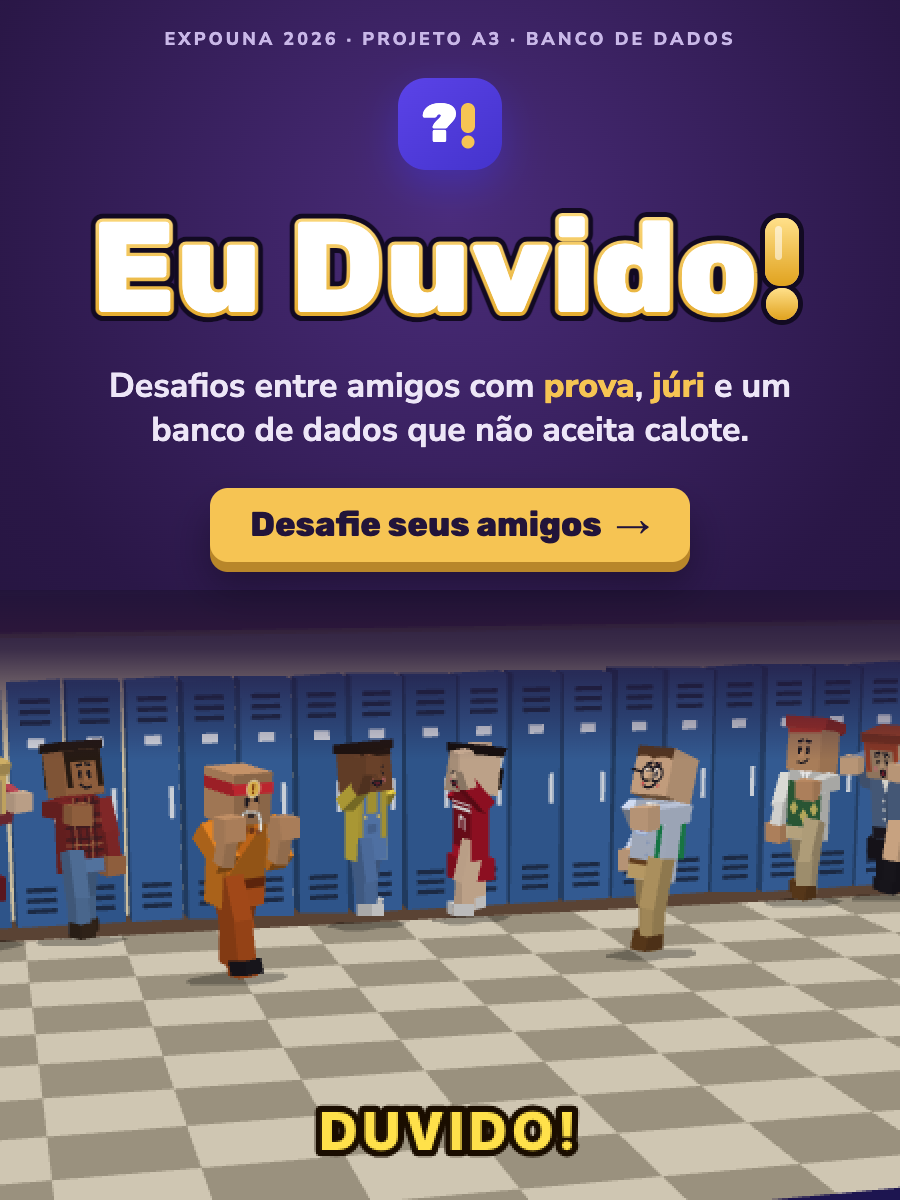
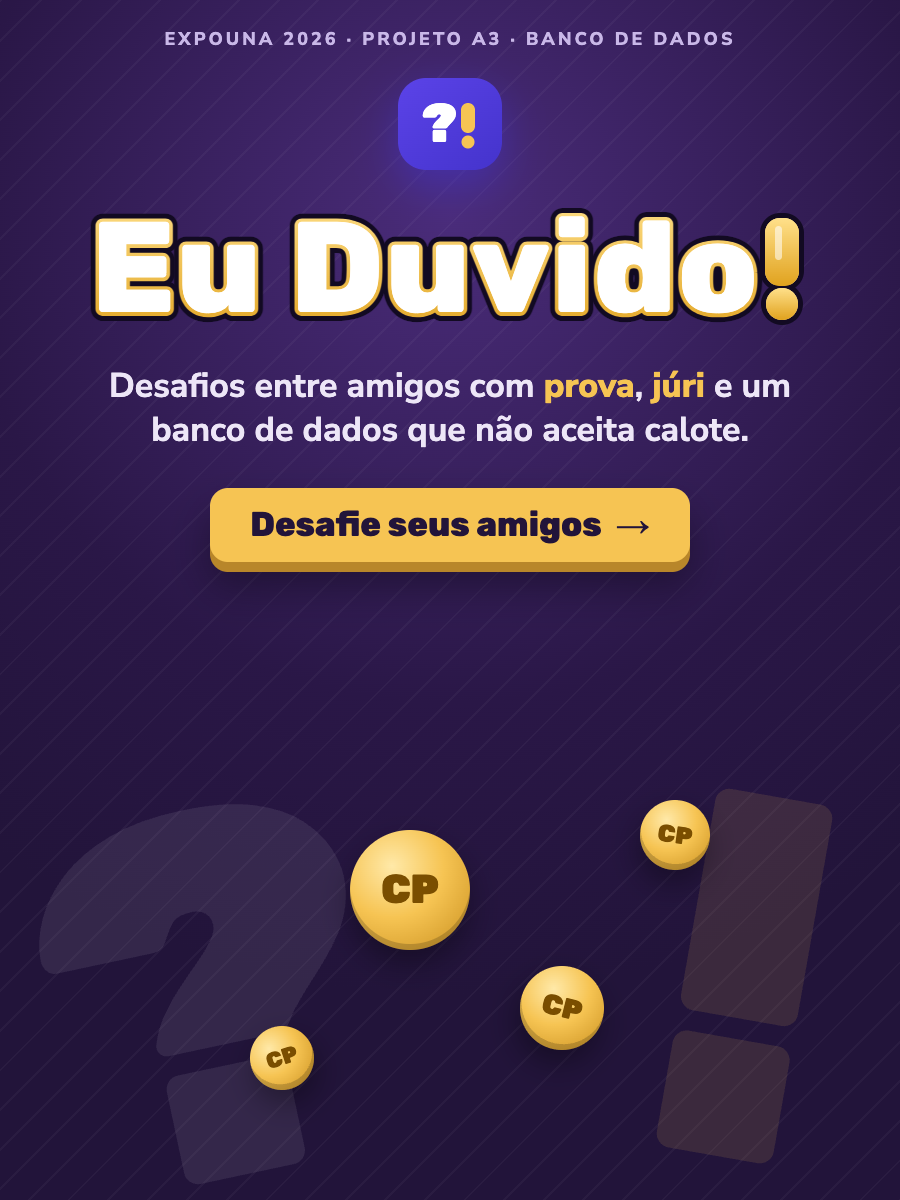
docs: card da EXPOUNA sem a cena 3D

diff --git a/docs/04-ux/card-expouna/card.html b/docs/04-ux/card-expouna/card.html
@@ -7,12 +7,16 @@
   * { box-sizing: border-box; margin: 0; padding: 0; }
   html, body { width: 900px; height: 1200px; overflow: hidden; background: #22143A; }
   .card { position: relative; width: 900px; height: 1200px; overflow: hidden;
-    background: radial-gradient(circle at 50% 18%, #4A2C7A 0%, #2A1747 45%, #22143A 70%); }
-  /* Cena 3D da abertura, recortada sem o convite de baixo. */
-  .cena { position: absolute; left: 0; bottom: 0; width: 900px; height: 610px;
-    background: url('cena-abertura-900x1200.png') 0 -508px / 900px 1200px no-repeat; }
-  .cena::before { content: ''; position: absolute; inset: 0 0 auto 0; height: 170px;
-    background: linear-gradient(180deg, #22143A 0%, rgba(34,20,58,.85) 35%, rgba(34,20,58,0) 100%); }
+    background:
+      repeating-linear-gradient(135deg, rgba(255,255,255,.035) 0 2px, transparent 2px 28px),
+      radial-gradient(circle at 50% 18%, #4A2C7A 0%, #2A1747 45%, #22143A 72%); }
+  /* Metade de baixo so decorativa: o texto fica todo na de cima. */
+  .fundo { position: absolute; left: 0; right: 0; bottom: 0; height: 600px; }
+  .glifo { position: absolute; font: 900 520px/1 'Rubik', Arial, sans-serif; opacity: .08; color: #fff; }
+  .moeda { position: absolute; display: grid; place-items: center; border-radius: 50%;
+    background: radial-gradient(circle at 35% 30%, #FFE9A8, #F6C453 45%, #C98F1E 100%);
+    box-shadow: inset 0 -6px 0 rgba(0,0,0,.18), 0 14px 30px rgba(0,0,0,.35);
+    font: 900 28px/1 'Rubik', Arial, sans-serif; color: #7A4E00; }
   .topo { position: absolute; inset: 0 0 auto 0; height: 600px; display: flex; flex-direction: column;
     align-items: center; padding-top: 78px; text-align: center; }
   .marca { width: 104px; height: 92px; border-radius: 28px; display: flex; align-items: center; justify-content: center;
@@ -31,7 +35,14 @@
 </head>
 <body>
 <div class="card">
-  <div class="cena"></div>
+  <div class="fundo" aria-hidden="true">
+    <span class="glifo" style="left:40px; bottom:-60px; transform:rotate(-12deg)">?</span>
+    <span class="glifo" style="right:70px; bottom:-40px; transform:rotate(10deg); color:#F6C453; opacity:.12">!</span>
+    <span class="moeda" style="width:120px; height:120px; left:350px; bottom:250px; font-size:40px">CP</span>
+    <span class="moeda" style="width:84px; height:84px; left:520px; bottom:150px; transform:rotate(14deg)">CP</span>
+    <span class="moeda" style="width:64px; height:64px; left:250px; bottom:110px; transform:rotate(-18deg); font-size:22px">CP</span>
+    <span class="moeda" style="width:70px; height:70px; left:640px; bottom:330px; transform:rotate(8deg); font-size:24px">CP</span>
+  </div>
   <div class="topo">
     <div class="marca">?<svg width="20" height="50" viewBox="0 0 20 50" aria-hidden="true"><rect x="3" y="4" width="14" height="30" rx="7" fill="#F6C453"/><circle cx="10" cy="43" r="6.5" fill="#F6C453"/></svg></div>
     <svg class="titulo" width="760" height="150" viewBox="0 0 760 150" aria-label="Eu Duvido!">

diff --git a/docs/04-ux/card-expouna/README.md b/docs/04-ux/card-expouna/README.md
@@ -13,11 +13,13 @@ Card de identidade visual do Eu Duvido! para a Vitrine Virtual da EXPOUNA 2026
 
 **De onde vem cada peça:**
 
-* **Metade de baixo:** um quadro real da abertura em 3D (tela 30), com o monge,
-  o nerd e a plateia no corredor do colégio, capturado do app em 900 x 1200.
+* **Metade de baixo:** só decorativa. O "?" e o "!" da marca aparecem em marca
+  d'água, junto com moedas de CP e as linhas diagonais do fundo da abertura.
+  Na primeira versão, essa metade tinha a cena 3D da abertura; o PO pediu para
+  tirá-la.
 * **Título:** branco com borda dourada, como na abertura. O "!" é desenhado em
   SVG, porque o glifo da fonte em peso alto fecha o vão entre o traço e o ponto.
 * **Marca "?!":** a mesma do ícone do app.
 
 **Para refazer:** abra `card.html` num navegador em 900 x 1200 e capture a
-página. O quadro de fundo é `cena-abertura-900x1200.png`.
+página.

diff --git a/docs/05-qualidade/registro-ia/2026-11-20-nome-completo-e-card-expouna.md b/docs/05-qualidade/registro-ia/2026-11-20-nome-completo-e-card-expouna.md
@@ -59,3 +59,13 @@ EXPOUNA 2026: 900 x 1200, em retrato, com o texto na metade de cima.
 
 Entram o nome completo nos documentos e no deck, e o card com o HTML de origem.
 O PO hospeda o card no Imgur e cola o link na plataforma MostraPlus.
+
+## Atualização: card sem a cena 3D
+
+O PO pediu:
+
+> Retire a cena 3D do card
+
+A metade de baixo passou a ser só decorativa: o "?" e o "!" da marca em marca
+d'água, moedas de CP e as linhas diagonais do fundo da abertura. O texto
+continua todo nos primeiros 580 px. O quadro da abertura saiu do repositório.
